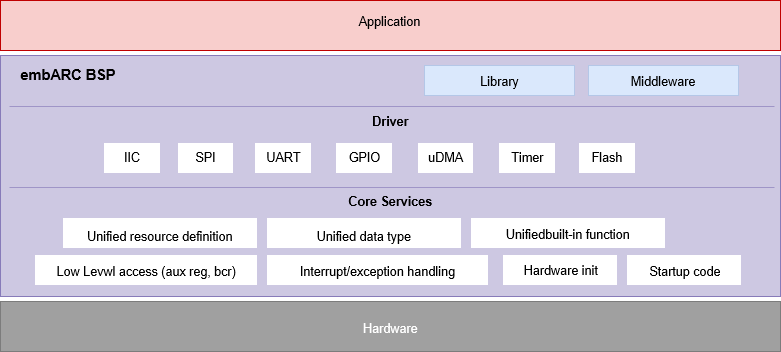
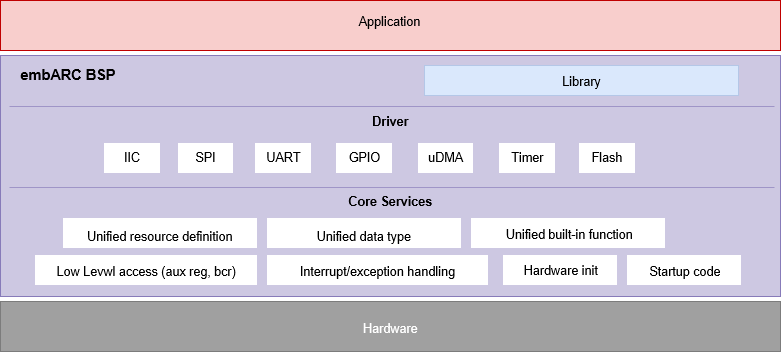
doc: improve bsp docs
edit the picture of architecture
remove some deprecated items in documents
reword documents

diff --git a/doc/documents/board/board.rst b/doc/documents/board/board.rst
@@ -9,27 +9,25 @@ Overview
 The **Board Support Package (BSP) Layer** provides support for different
 boards based on |arc|. The layer contains the following functions:
 
-- **Drivers instantiation**   In embARC BSP, an object-oriented design is applied
+- **Drivers instantiation**: In embARC BSP, an object-oriented design is applied
   for device drivers. The peripheral driver implementations are similar to the
   definition of class in the device abstraction layer. So the peripheral drivers
-  should be instantiated for every board.   For example, ``dw_gpio_obj.c`` /
-  ``dw_gpio_obj.h`` is the instantiation of the DesignWare GPIO driver
-  implementation in device abstraction layer, which contains the information of
+  should be instantiated for every board.   For example, ``dw_gpio_obj.c`` and
+  ``dw_gpio_obj.h`` are the instantiations of the DesignWare GPIO driver
+  implementation in device abstraction layer, which contain the information of
   register address, interrupt number, etc.
 
-- **Common board initialization process** A standard bootup process is
-  defined for each board. The entry of this process is ``board_main`` defined
-  in ``board/board.c``, it will cover board initialization, os environment
-  setup, fatfs and ntshell initialization, finally it will enter to ``main``
-  function if required.
+- **Common board initialization process**: A standard bootup process is
+  defined for all boards. The entry of this process is ``board_main`` defined
+  in ``board/board.c``, and it calls to board initialization, fatfs and ntshell initialization,
+  finally it will enter to ``main`` function if required.
 
-- **Board resource unified definition**  Most boards share common peripherals.
-  Unified definitions are provided such as UART used to print messages, SD card
-  interface, buttons, LEDs.
+- **Board resource unified definition**:  Most boards share common peripherals.
+  Unified definitions are provided such as UART (as console interface), SD card interface, buttons, LEDs.
 
-- **Linker script for boards** Linker script is auto-generated from
+- **Linker script for boards**: Linker script is auto-generated from
   template using the ICCM/DCCM and DDR memory information. embARC BSP provides templates
-  for both ARC GNU and MetaWare toolchains, located in ``board`` folder, called
+  for both ARC GNU and MetaWare toolchains, located in ``option\toolchain`` folder. The files are named
   ``linker_template_gnu.ld`` and ``linker_template_mw.ld``.
 
 Common Board Initialization Process
@@ -42,10 +40,10 @@ The common ``board_main`` function in ``board.c`` will do the following operatio
   - Install required device driver objects, such as UART/SPI/IIC device objects.
   - Clear and disable all interrupts.
   - Initialize 1 ms timer interrupt.
-  - Initialize some peripherals if used.
+  - (optional) Initialize peripherals.
   - Initialize other required board resources such as mux controller.
 
-- xprintf library setup to provide printf functionality
+- (optional) setup xprintf library to provide printf functionality
 - Go to ``main`` function
 
 Supported Boards
@@ -67,37 +65,38 @@ The BSP Layer currently supports the following boards.
 * AXS board support can be found in ``board/axs``, detailed in ARC AXS Software
   Development Platform (AXS). It includes the following sub-folders:
 
-  * :file:`common`: AXS board initialization functions and 1 ms interrupt timer function
+  * :file:`common`: AXS board initialization functions
   * :file:`drivers`: Various peripheral drivers for various examples
   * :file:`configs`: Different versions of axs, and various core configurations for different version
 
 * EM Starter Kit (EMSK) support can be found in ``board/emsk``. It includes the following sub-folders.
 
-  * :file:`common`: EMSK board initialization functions and 1 ms interrupt timer function
+  * :file:`common`: EMSK board initialization functions and board IO
   * :file:`drivers`: Various peripheral drivers for various examples
   * :file:`configs`: Different versions of emsk, and various core configurations for different version
 
-* EM Software Development Package (EM SDP) support can be found in ``board/emsdp``. It includes the following sub-folders.
+* EM Software Development Package (EMSDP) support can be found in ``board/emsdp``. It includes the following sub-folders.
 
-  * :file:`common`: EMSK board initialization functions and 1 ms interrupt timer function
+  * :file:`common`: EMSDP board initialization functions and board IO
   * :file:`drivers`: Various peripheral drivers for various examples
-  * :file:`configs`: Different versions of emsdp, and various core configurations for different version
+  * :file:`rev2/configs`: Various core configurations for different version
+  * :file:`openocd`: support of openocd
 
 * HS Development Kit (HSDK) board support can be found in ``board/hsdk``. It includes the following sub-folders.
 
-  * :file:`common`: HSDK board initialization functions and 1 ms interrupt timer function
+  * :file:`common`: HSDK board initialization functions and board IO
   * :file:`drivers`: Various peripheral drivers for various examples
   * :file:`configs`: Support for different board versions (if applicable), and support for different core configurations for each board version (if applicable)
 
 * IoT Development Kit (IoTDK) board support can be found in ``board/iotdk``. It includes the following sub-folders.
 
-  * :file:`common`: IoTDK board initialization functions and 1 ms interrupt timer function
+  * :file:`common`: IoTDK board initialization functions
   * :file:`drivers`: Various peripheral drivers for various examples
   * :file:`configs`: Support for different board versions (if applicable), and support for different core configurations for each board version (if applicable)
 
 * nSIM virtual board support can be found in ``board/nsim``. It includes the following sub-folders.
 
-  * :file:`common`: nSIM virtual board initialization functions and 1 ms interrupt timer function
+  * :file:`common`: nSIM virtual board initialization functions
   * :file:`drivers`: Basic hostlink UART driver for message input and output
   * :file:`configs`: Different versions of nsim, and various core configurations for different version
 
@@ -119,7 +118,6 @@ The board resource definitions are defined in ``board.h``, where the hardware he
     BOARD_TEMP_SENSOR_IIC_ID              Temperature sensor IIC interface ID
     BOARD_TEMP_IIC_SLVADDR                Temperature sensor IIC slave address
     BOARD_SDCARD_SPI_ID                   SD card SPI interface ID
-    BOARD_WIFI_SPI_ID                     WiFi SPI interface ID
     BOARD_SFLASH_SPI_ID                   SPI flash SPI interface ID
     BOARD_SDCARD_SPI_LINE                 SD card SPI interface CS line
     BOARD_WIFI_SPI_LINE                   WiFI SPI interface CS line
@@ -138,12 +136,5 @@ The board resource definitions are defined in ``board.h``, where the hardware he
     BOARD_BTN_CNT                         Button count
     BOARD_SWT_MASK                        Switch mask
     BOARD_SWT_CNT                         Switch count
-    BOARD_ONBOARD_NTSHELL_ID              Default NtShell ID
-    GET_CUR_SYSHZ                         Macro to get current syshz
-    GET_CUR_MS                            Macro to get current ms count
-    GET_CUR_US                            Macro to get current us count
-    GET_CUR_HWTICKS                       Macro to get current hardware ticks count
     board_init                            Function for common board initialization
-    board_timer_update                    Call in period interrupt when using timer interrupt
-    board_delay_ms                        MS delay
    ====================================  ==========================================================

diff --git a/doc/documents/arc/index.rst b/doc/documents/arc/index.rst
@@ -22,24 +22,36 @@ Related files
 
 The files relevant to the ARC HAL are described in the table below.
 
-+-------------------------------------------+--------------------------------------------+
-| File/Folder                               | Content                                    |
-+-------------------------------------------+--------------------------------------------+
-| arc.h, arc_em.h, arc_hs.h                 | Processor resources definition             |
-+-------------------------------------------+--------------------------------------------+
-| arc_asm_common.h                          | Common macro definitions for assembly code |
-+-------------------------------------------+--------------------------------------------+
-| arc_builtin.h                             | Compiler built-in and helper functions     |
-+-------------------------------------------+--------------------------------------------+
-| arc_cache.c, arc_cache.h                  | ARC cache module                           |
-+-------------------------------------------+--------------------------------------------+
-| arc_exc_asm.s                             | Assembly part of exception handling        |
-+-------------------------------------------+--------------------------------------------+
-| arc_startup.s                             | Common startup routine                     |
-+-------------------------------------------+--------------------------------------------+
-| arc_timer.c, arc_timer.h                  | ARC internal timer module                  |
-+-------------------------------------------+--------------------------------------------+
-| arc_udma.c, arc_udma.h, arc_udma_config.h | ARC uDMA module                            |
-+-------------------------------------------+--------------------------------------------+
-| arc_mpu.c, arc_mpu.h                      | ARC MPU module                             |
-+-------------------------------------------+--------------------------------------------+
++-------------------------------------------+----------------------------------------------+
+| File/Folder                               | Content                                      |
++-------------------------------------------+----------------------------------------------+
+| arc.h, arc_em.h, arc_hs.h                 | Processor resources definition               |
++-------------------------------------------+----------------------------------------------+
+| arc_feature_config.h                      | Processor resources interface                |
++-------------------------------------------+----------------------------------------------+
+| arc_asm_common.h                          | Common macro definitions for assembly code   |
++-------------------------------------------+----------------------------------------------+
+| arc_builtin.h                             | Compiler built-in and helper functions       |
++-------------------------------------------+----------------------------------------------+
+| arc_exception.c, arc_exc_asm.s            | Exception and interrupt handling             |
++-------------------------------------------+----------------------------------------------+
+| arc_startup.s                             | Common startup routine                       |
++-------------------------------------------+----------------------------------------------+
+| arc_cxx_support.c                         | C++ constructor & destructor routines        |
++-------------------------------------------+----------------------------------------------+
+| arc_cache.c, arc_cache.h                  | ARC cache module                             |
++-------------------------------------------+----------------------------------------------+
+| arc_timer.c, arc_timer.h                  | ARC internal timer module                    |
++-------------------------------------------+----------------------------------------------+
+| arc_udma.c, arc_udma.h, arc_udma_config.h | ARC uDMA module                              |
++-------------------------------------------+----------------------------------------------+
+| arc_mpu.c, arc_mpu.h                      | ARC MPU module                               |
++-------------------------------------------+----------------------------------------------+
+| arc_connect.c                             | ARConnect module support                     |
++-------------------------------------------+----------------------------------------------+
+| arc_mp.c, arc_mp.h                        | Multi-processor support                      |
++-------------------------------------------+----------------------------------------------+
+| arc_xy_agu.h                              | ARC XY memory support                        |
++-------------------------------------------+----------------------------------------------+
+| arc_util.s                                | Other assembly utilities                     |
++-------------------------------------------+----------------------------------------------+

diff --git a/doc/documents/getting_started/getting_started.rst b/doc/documents/getting_started/getting_started.rst
@@ -3,14 +3,13 @@
 Getting Started
 ===============
 
-Use this guide to get started with your :ref:`embARC BSP <introduction_embarc_BSP>`
-development.
+Use this guide to get started with your :ref:`embARC BSP <introduction_embarc_BSP>` development.
 
 Checking Out the embARC BSP source code
 #######################################
 
-The embARC BSP source code is hosted in a GitHub repository that supports
-cloning via git. There are scripts and such in this repo that you'll need to set up your development environment, and we'll be using Git to get this repo. If you don't have Git installed, please refer to the beginning of the host OS-specific getting started instructions below for help.
+The embARC BSP source code is hosted in GitHub.
+The code can be checkouted to your local machine by *git clone*.
 
 We'll begin by using Git to clone the repository anonymously.
 
@@ -23,19 +22,19 @@ We'll begin by using Git to clone the repository anonymously.
 
    git clone https://github.com/foss-for-synopsys-dwc-arc-processors/embarc_bsp.git embarc_bsp
 
-You have successfully checked out a copy of the source code to your local
-machine.
+When the command is returned, you can check in your folder that you have successfully cloned the source code to your local machine.
 
 
 Setting Up the Development Environment
 ######################################
 
-The embARC BSP platform supports, but not limited to, the following development machine operating systems:
+The embARC BSP supports, but not limited to, the following development machine operating systems:
 
 * Microsoft Windows 10 / Windows 7
 * Ubuntu 16.04
 
-Use the following procedure to create a new development environment. Please DO follow the instructions introduced in the document below to acquire a third party library.
+Use the following procedure to create a new development environment.
+Please DO follow the instructions introduced in the document below to acquire a third party library.
 
 .. toctree::
    :maxdepth: 1
@@ -49,10 +48,9 @@ Use the following procedure to create a new development environment. Please DO f
 Building a Sample Application
 #############################
 
-Using the ``blinky`` example, the following steps, which contains the commands
+Using the ``blinky`` example as demonstration, the following steps which contain the commands
 used for the ARC GNU toolchain in a Windows environment, will describe how
-to build an embARC BSP application. Please use the
-appropriate commands for your OS.
+to build an embARC BSP application. Please use the appropriate commands for your OS.
 
 1. Make sure the ARC GNU toolchain is installed in your environment, see :ref:`software_requirement`.
 

diff --git a/doc/documents/device/device.rst b/doc/documents/device/device.rst
@@ -6,22 +6,21 @@ Devices
 Overview
 ########
 
-The ``device`` folder in the root of embARC contains the necessary software APIs
-and implementations for common device IP and external peripheral drivers. The
-device layer consists of the following components:
+In the root directory of embARC, the ``device`` folder contains the necessary software APIs
+and implementations for common device IP and external peripheral drivers.
+The device layer consists of the following components:
 
-- **Device HAL**: a device hardware abstraction layer including WNIC (Wireless
-  Network Interface Controller), UART (Universal Asynchronous
+- **Device HAL**: a device hardware abstraction layer including UART (Universal Asynchronous
   Receiver/Transmitter), SPI (Serial Peripheral Interface), IIC (Inter-
   Integrated Circuit), I2S (Inter-IC Sound), GPIO (General Purpose Input Output) and SDIO (Secure
   Digital Input and Output).
 
-- **IP Driver Implementation**: device driver implementations based on the above device
-  HAL, including DesignWare IP implementations of UART, IIC, SPI, GPIO and
+- **IP Driver Implementation**: Based on the device HAL, the IP drivers
+  include DesignWare IP implementations of UART, IIC, SPI, GPIO and
   SDIO devices and Designware ARC Subsystem IP implementation.
 
-- **Peripheral Driver Implementation**: peripheral driver implementations such as
-  flash, sensors and PMOD modules.
+- **Peripheral Driver Implementation**: on-board peripheral driver implementations such as
+  flash, ADC, sensors.
 
 .. image:: /pic/embARC_device_hal.png
     :alt: embARC Device HAL
@@ -90,5 +89,5 @@ information. Taking EMSK board as an example, its drivers' instantiation is loca
 ``board/emsk/drivers/ip/designware``. Different instantiations of same type driver will be
 differentiated through ID.
 
-There are 3 UARTs in EMSK, their instantiations are in ``dw_uart_obj.c`` and
-ID allocations & other related definitions are in ``dw_uart_obj.h``.
+There are 3 UART ports in EMSK, their instantiations locate in ``dw_uart_obj.c``.
+ID allocations as well as other related definitions are in ``dw_uart_obj.h``.
